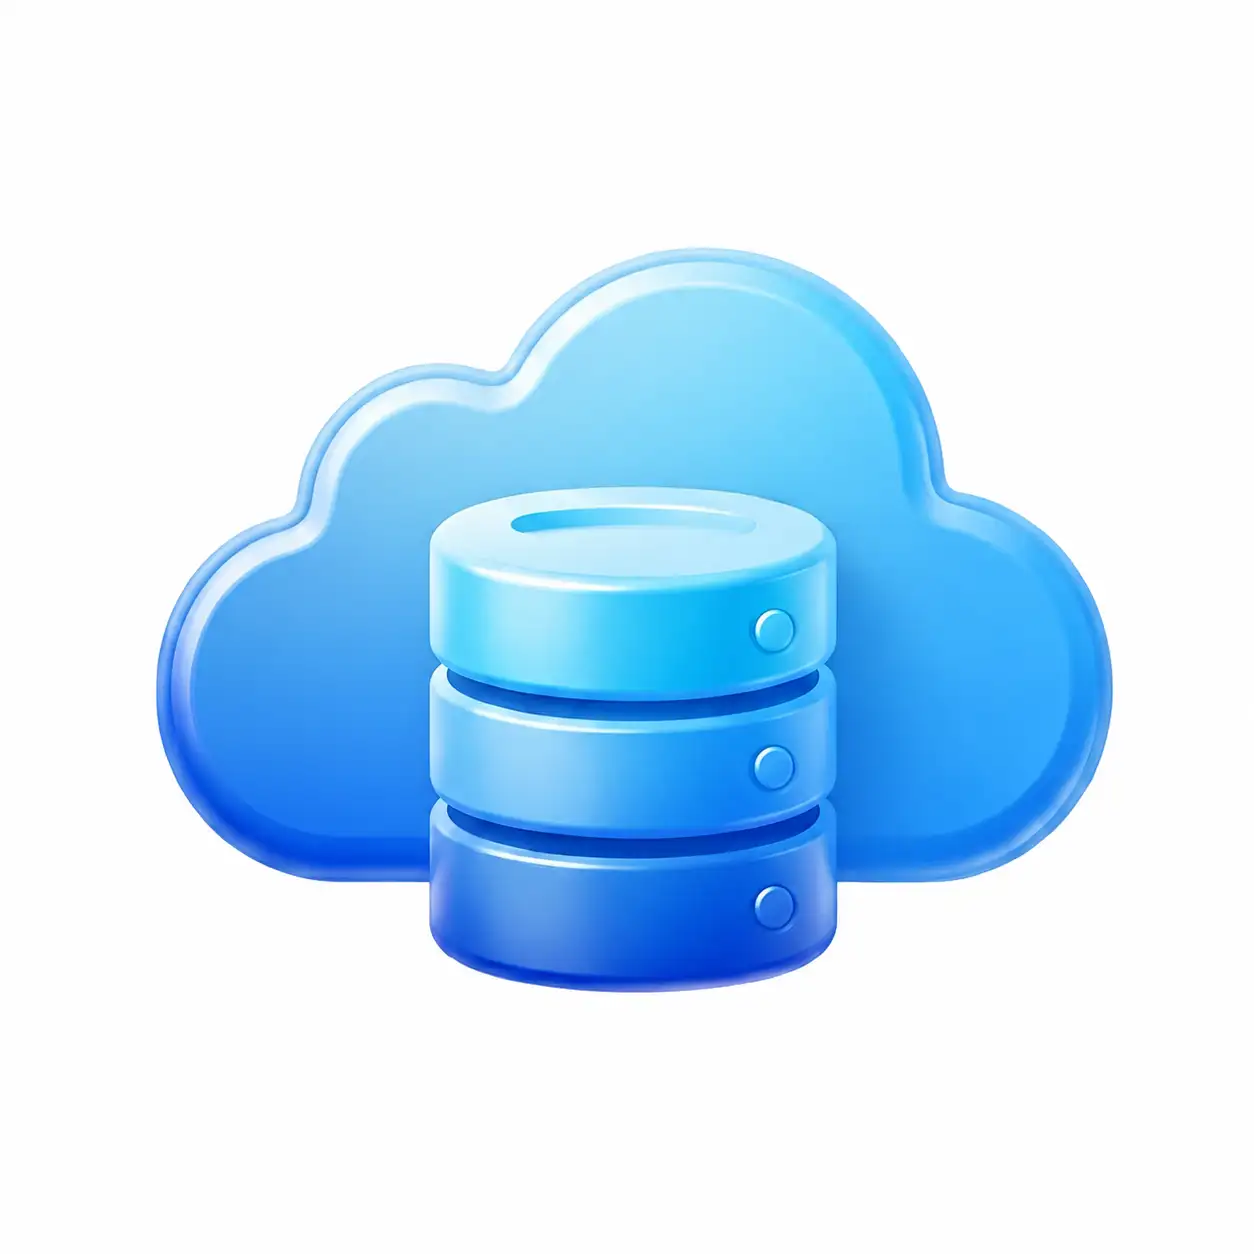
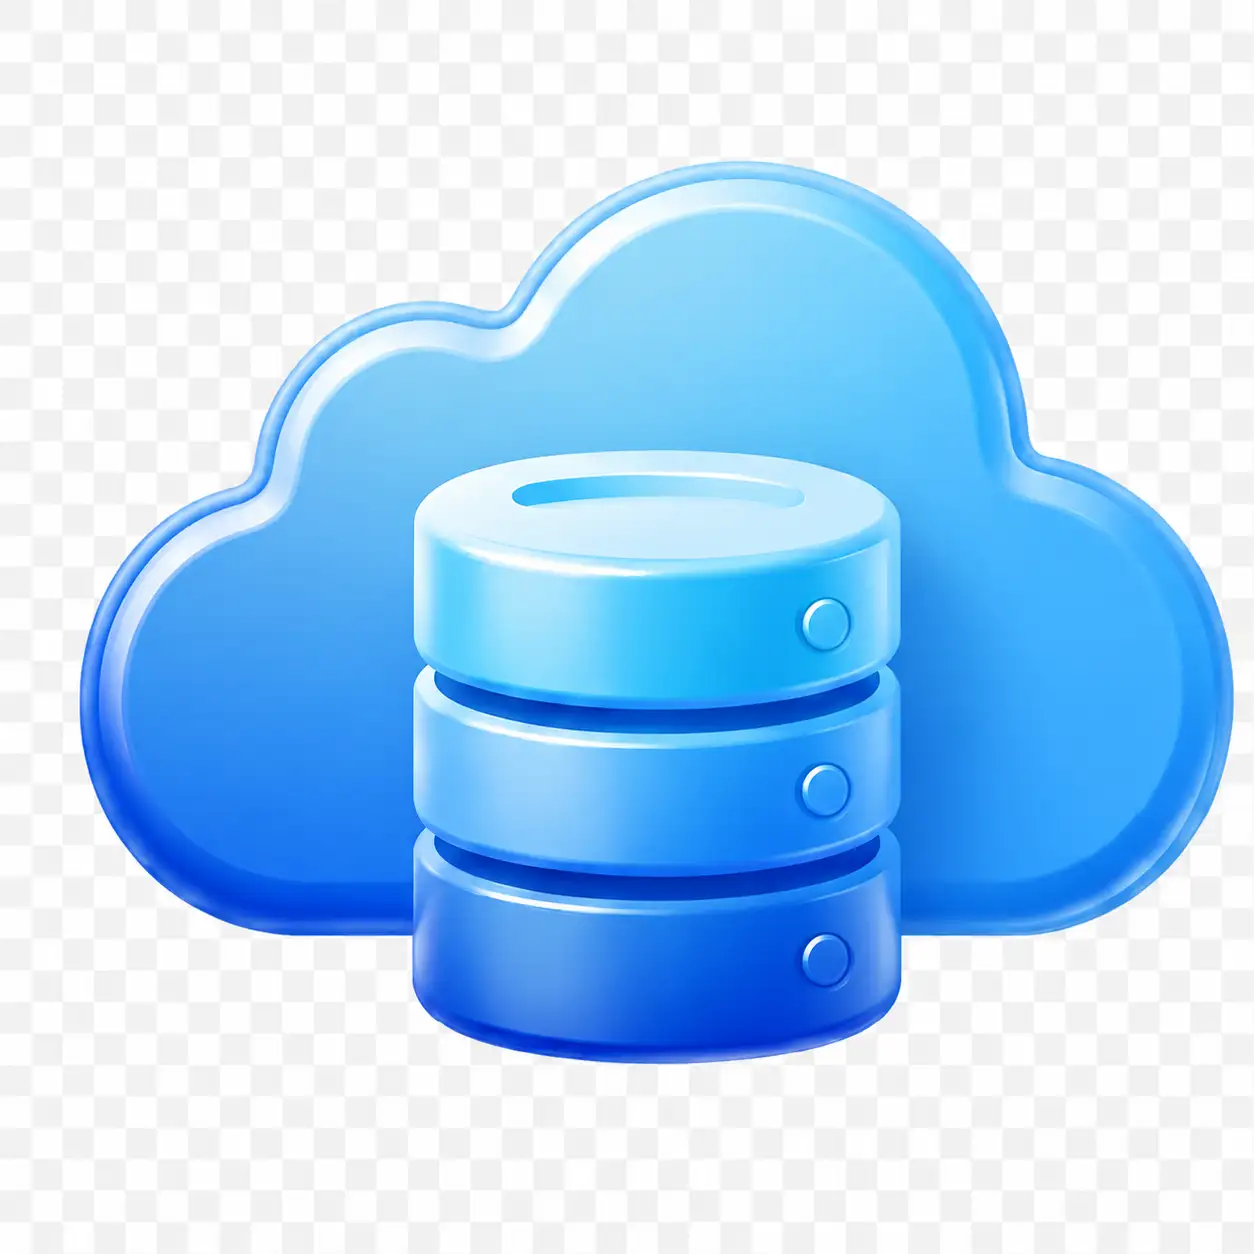
update

Changed region(s): [[0.0622, 0.1244, 0.9952, 0.8708]]

diff --git a/assets/Footer.vue b/assets/Footer.vue
@@ -1,6 +1,6 @@
 <template>
   <footer class="footer">
-    <div class="icons">
+    <div v-if="false" class="icons">
       <a :href="homeUrl" target="_blank" rel="noopener noreferrer" class="icon-link" title="个人主页">
         <svg xmlns="http://www.w3.org/2000/svg" viewBox="0 0 576 512"><path d="M575.8 255.5c0 18-15 32.1-32 32.1l-32 0 .7 160.2c0 2.7-.2 5.4-.5 8.1l0 16.2c0 22.1-17.9 40-40 40l-16 0c-1.1 0-2.2 0-3.3-.1c-1.4 .1-2.8 .1-4.2 .1L416 512l-24 0c-22.1 0-40-17.9-40-40l0-24 0-64c0-17.7-14.3-32-32-32l-64 0c-17.7 0-32 14.3-32 32l0 64 0 24c0 22.1-17.9 40-40 40l-24 0-31.9 0c-1.5 0-3-.1-4.5-.2c-1.2 .1-2.4 .2-3.6 .2l-16 0c-22.1 0-40-17.9-40-40l0-112c0-.9 0-1.9 .1-2.8l0-69.7-32 0c-18 0-32-14-32-32.1c0-9 3-17 10-24L266.4 8c7-7 15-8 22-8s15 2 21 7L564.8 231.5c8 7 12 15 11 24z"></path></svg>
       </a>